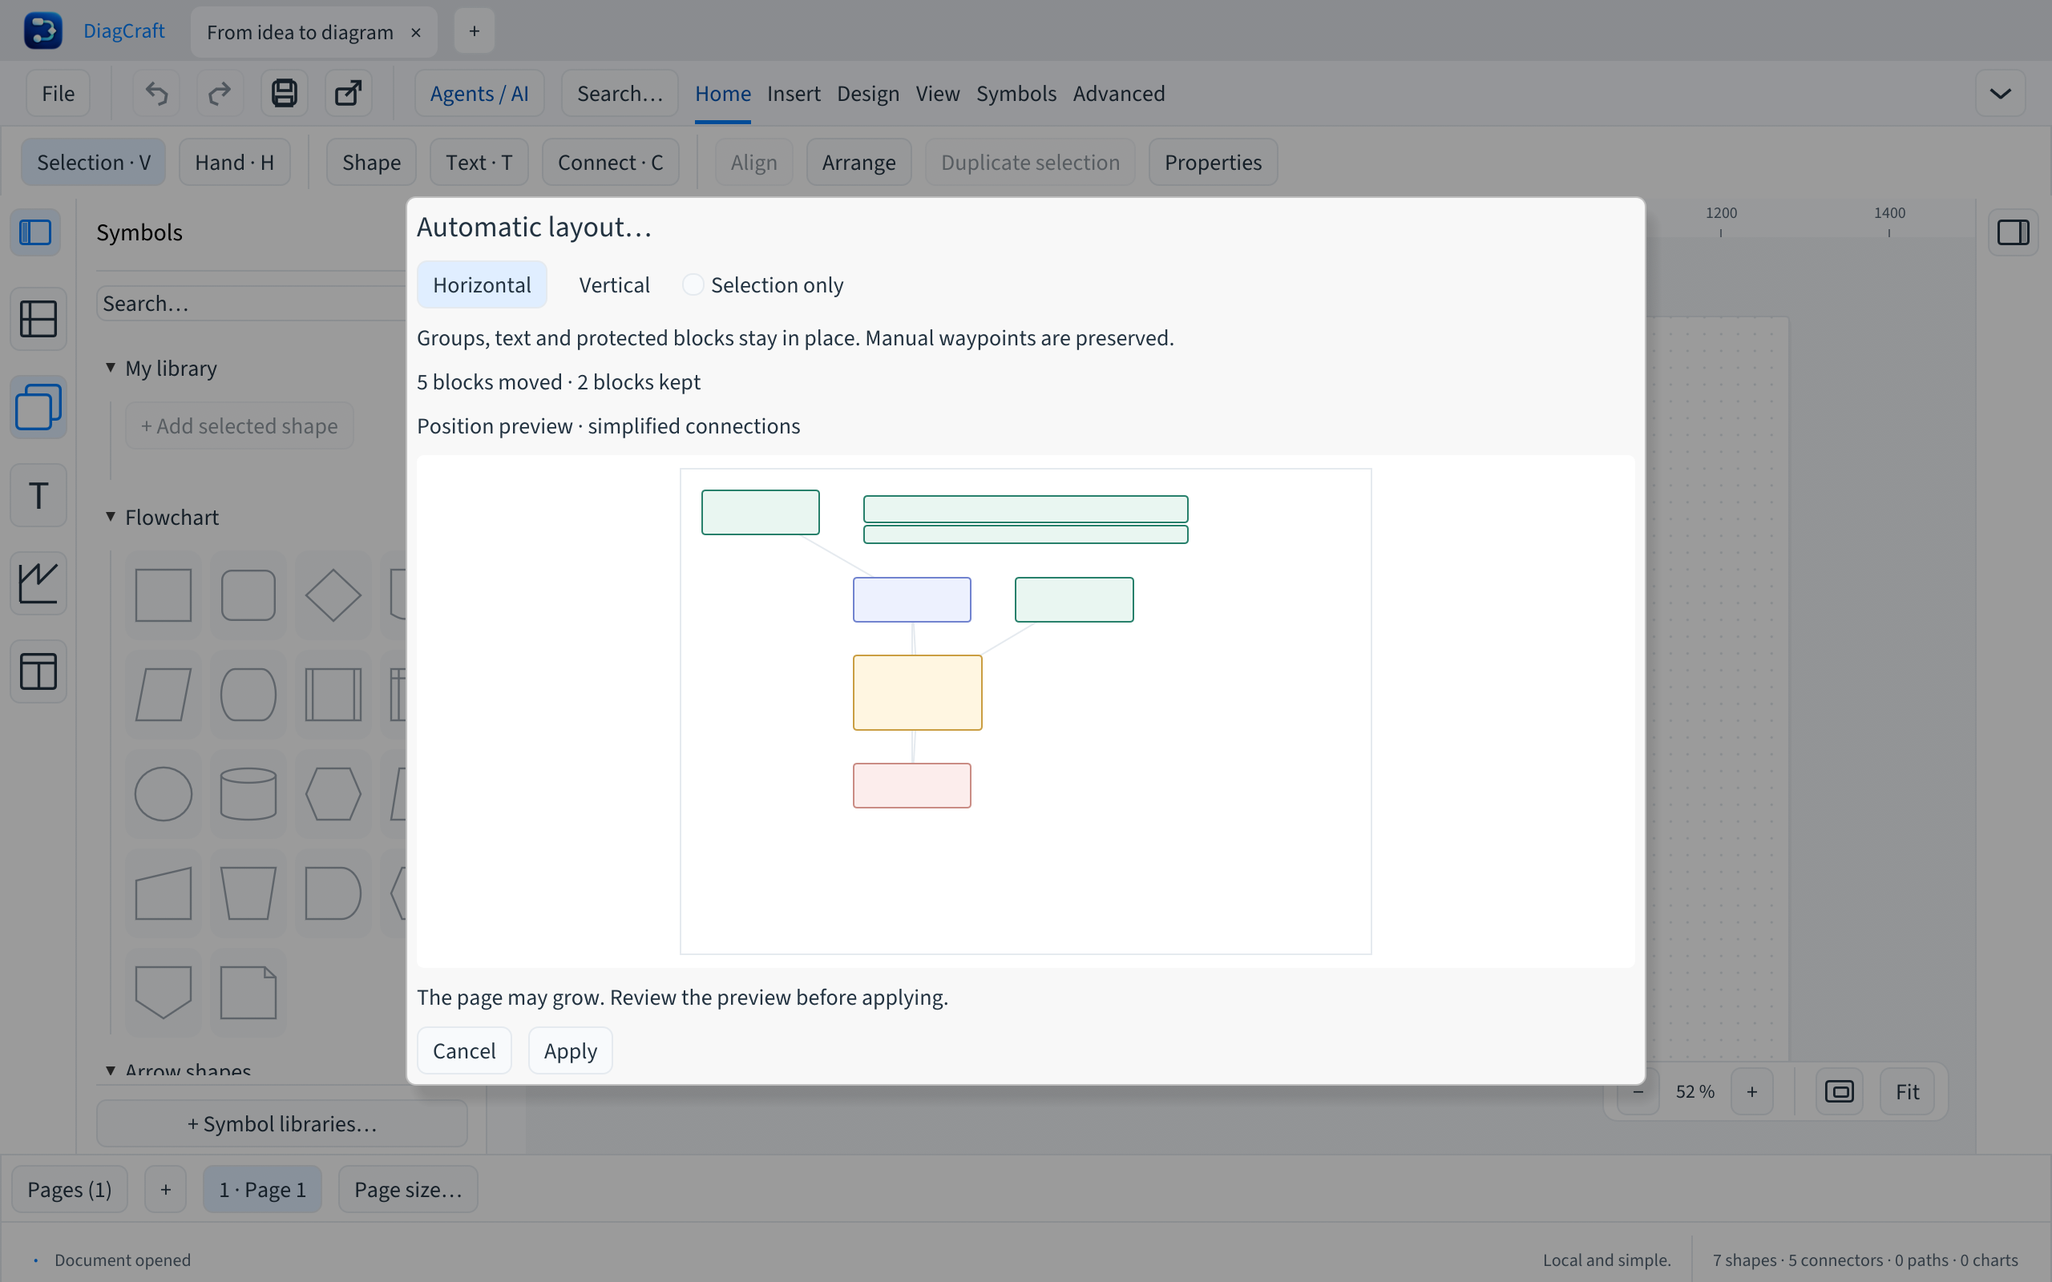
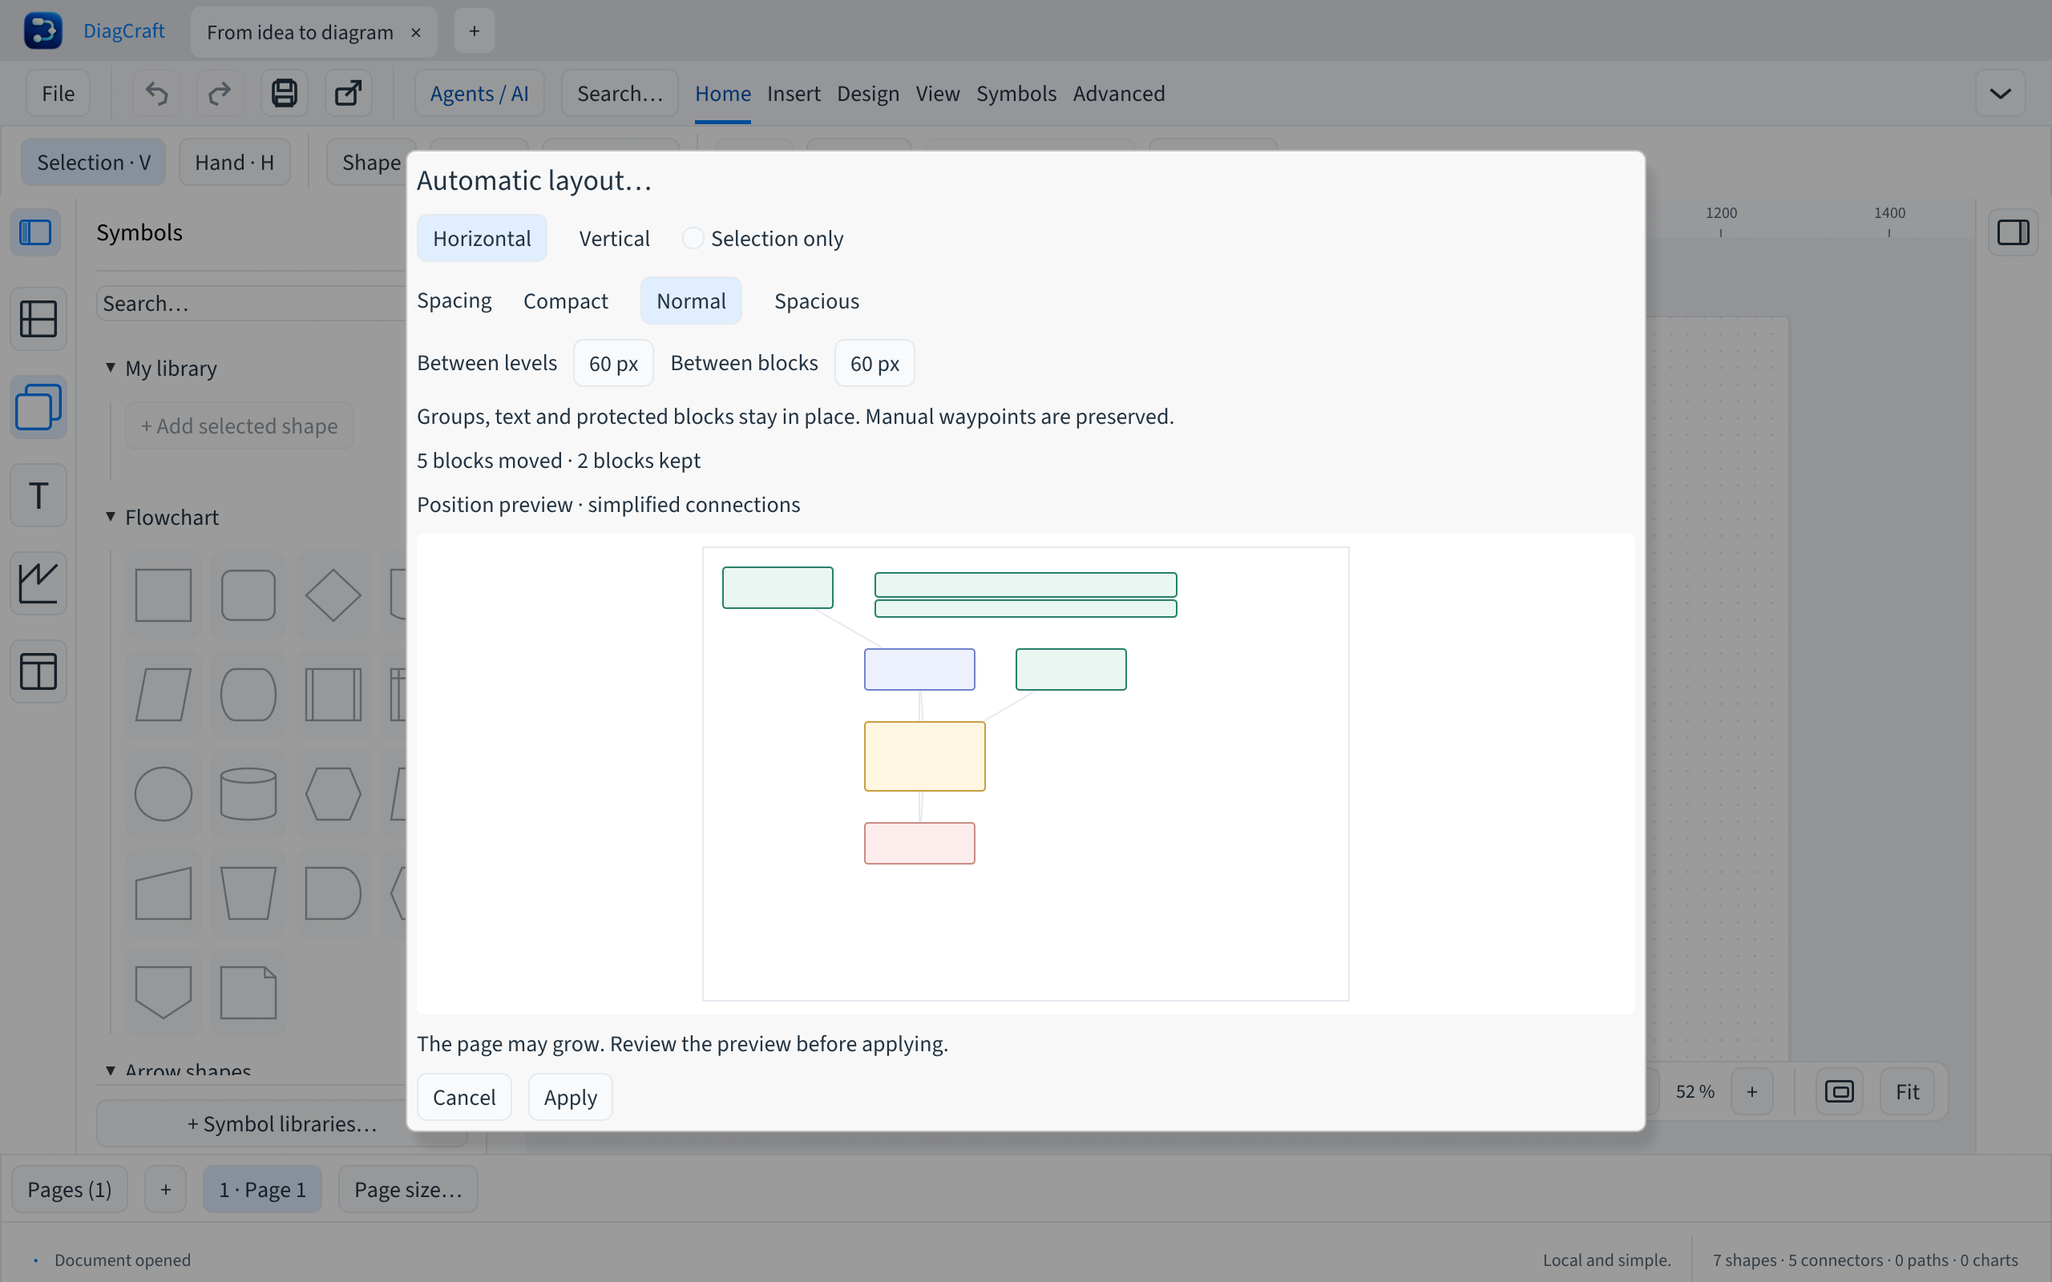
Add independent automatic-layout spacing controls and presets

diff --git a/apps/diagcraft/src/auto_layout_ui.rs b/apps/diagcraft/src/auto_layout_ui.rs
@@ -1,21 +1,23 @@
 //! Preview state is transient and never edits a drawing until Apply.
 use super::*;
-use diagcraft::auto_layout::{self, Direction};
+use diagcraft::auto_layout::{self, Direction, Spacing};
 
 pub(super) struct Panel {
     source: Document,
     tab: usize,
     direction: Direction,
+    spacing: Spacing,
     selection_only: bool,
     selection: Vec<u64>,
     preview: Result<auto_layout::Preview, String>,
 }
 impl Panel {
     fn refresh(&mut self) {
-        self.preview = auto_layout::preview(
+        self.preview = auto_layout::preview_with_spacing(
             &self.source,
             self.selection_only.then_some(self.selection.as_slice()),
             self.direction,
+            self.spacing,
         );
     }
     fn current(&self, app: &DrawApp) -> bool {
@@ -31,6 +33,7 @@ impl DrawApp {
             source: self.doc.clone(),
             tab: self.active_tab,
             direction: Direction::Horizontal,
+            spacing: Spacing::default(),
             selection_only: !self.selected.is_empty(),
             selection: self.selected.clone(),
             preview: Err(String::new()),
@@ -65,6 +68,22 @@ impl DrawApp {
                 ui.checkbox(&mut panel.selection_only, t("Sélection uniquement"));
                 if before != (panel.direction, panel.selection_only) { panel.refresh(); }
             });
+            let previous = panel.spacing;
+            ui.horizontal_wrapped(|ui| {
+                ui.label(t("Espacement"));
+                for (label, gap) in [("Compact", 30.), ("Normal", 60.), ("Aéré", 120.)] {
+                    if ui.selectable_label(panel.spacing == Spacing { levels: gap, blocks: gap }, t(label)).clicked() {
+                        panel.spacing = Spacing { levels: gap, blocks: gap };
+                    }
+                }
+            });
+            ui.horizontal_wrapped(|ui| {
+                let levels = ui.label(t("Entre les niveaux"));
+                ui.add(egui::DragValue::new(&mut panel.spacing.levels).range(20. ..=300.).speed(1.).suffix(" px")).labelled_by(levels.id);
+                let blocks = ui.label(t("Entre les blocs"));
+                ui.add(egui::DragValue::new(&mut panel.spacing.blocks).range(20. ..=300.).speed(1.).suffix(" px")).labelled_by(blocks.id);
+            });
+            if panel.spacing != previous { panel.refresh(); }
             ui.label(t("Les groupes, textes et blocs protégés restent en place. Les points manuels sont conservés."));
             if !panel.current(self) {
                 ui.colored_label(theme_ui::ERROR_TEXT, t("Le document a changé. Actualisez l’aperçu avant de continuer."));
@@ -77,7 +96,7 @@ impl DrawApp {
                 Ok(preview) => {
                     ui.label(i18n::render("{0} blocs déplacés · {1} blocs conservés", &[("0", preview.moved.to_string()), ("1", preview.fixed.to_string())]));
                     ui.label(t("Aperçu des positions · liaisons simplifiées"));
-                    let (rect, _) = ui.allocate_exact_size(vec2(ui.available_width(), (ctx.content_rect().height() - 320.).clamp(120., 320.)), Sense::hover());
+                    let (rect, _) = ui.allocate_exact_size(vec2(ui.available_width(), (ctx.content_rect().height() - 400.).clamp(120., 300.)), Sense::hover());
                     paint_preview(ui.painter(), &preview.document, rect);
                     ui.label(t("La page peut s’agrandir. Vérifiez l’aperçu avant d’appliquer."));
                 }
@@ -208,6 +227,89 @@ mod tests {
             // Cancel by dropping transient preview, with no document edit.
             app.auto_layout_ui = None;
             assert!(!app.command_dialog_blocked());
+        }
+        i18n::activate(Language::French);
+    }
+    #[test]
+    fn preset_clicks_refresh_only_the_preview_and_apply_as_one_edit() {
+        for language in Language::ALL {
+            let ctx = egui::Context::default();
+            let mut app = DrawApp::from_context(&ctx, Document::demo(), None, None);
+            app.set_language(Some(language));
+            app.open_auto_layout();
+            let before = app.doc.clone();
+            let render = |app: &mut DrawApp, events| {
+                ctx.run(
+                    egui::RawInput {
+                        screen_rect: Some(Rect::from_min_size(Pos2::ZERO, vec2(1200., 680.))),
+                        focused: true,
+                        events,
+                        ..Default::default()
+                    },
+                    |ctx| app.auto_layout_dialog(ctx),
+                )
+            };
+            for (label, gap) in [("Compact", 30.), ("Normal", 60.), ("Aéré", 120.)] {
+                render(&mut app, vec![]);
+                let output = render(&mut app, vec![]);
+                let point = output
+                    .shapes
+                    .iter()
+                    .find_map(|shape| {
+                        if let egui::Shape::Text(text) = &shape.shape
+                            && text.galley.text() == t(label)
+                        {
+                            Some(text.pos + text.galley.size() / 2.)
+                        } else {
+                            None
+                        }
+                    })
+                    .expect("preset must be visible in the short window");
+                for pressed in [true, false] {
+                    render(
+                        &mut app,
+                        vec![
+                            egui::Event::PointerMoved(point),
+                            egui::Event::PointerButton {
+                                pos: point,
+                                button: egui::PointerButton::Primary,
+                                pressed,
+                                modifiers: egui::Modifiers::NONE,
+                            },
+                        ],
+                    );
+                }
+                let panel = app.auto_layout_ui.as_ref().unwrap();
+                assert_eq!(
+                    panel.spacing,
+                    Spacing {
+                        levels: gap,
+                        blocks: gap
+                    }
+                );
+                let expected = auto_layout::preview_with_spacing(
+                    &before,
+                    None,
+                    Direction::Horizontal,
+                    panel.spacing,
+                )
+                .unwrap();
+                assert_eq!(panel.preview.as_ref().unwrap().document, expected.document);
+                assert_eq!(app.doc, before);
+                assert!(!app.history.can_undo());
+            }
+            let mut panel = app.auto_layout_ui.take().unwrap();
+            panel.spacing = Spacing {
+                levels: 85.,
+                blocks: 35.,
+            };
+            panel.refresh();
+            let expected = panel.preview.as_ref().unwrap().document.clone();
+            assert!(app.apply_auto_layout(&panel));
+            assert_eq!(app.doc, expected);
+            app.undo();
+            assert_eq!(app.doc, before);
+            assert!(!app.history.can_undo());
         }
         i18n::activate(Language::French);
     }

diff --git a/crates/core/tests/auto_layout.rs b/crates/core/tests/auto_layout.rs
@@ -1,5 +1,5 @@
 use diagcraft::{
-    auto_layout::{Direction, preview},
+    auto_layout::{Direction, Spacing, preview, preview_with_spacing},
     document::{ConnectorKind, Document, ShapeKind},
 };
 fn flow() -> (Document, Vec<u64>) {
@@ -92,4 +92,79 @@ fn other_pages_and_source_survive_and_limits_fail_without_mutation() {
     let before = d.clone();
     assert!(preview(&d, None, Direction::Horizontal).is_err());
     assert_eq!(d, before);
+}
+
+#[test]
+fn custom_spacing_controls_levels_and_siblings_independently_in_both_directions() {
+    let (doc, ids) = flow();
+    let before = doc.clone();
+    for (axis, direction) in [(0, Direction::Horizontal), (1, Direction::Vertical)] {
+        for spacing in [
+            Spacing {
+                levels: 20.,
+                blocks: 300.,
+            },
+            Spacing {
+                levels: 300.,
+                blocks: 20.,
+            },
+            Spacing {
+                levels: 85.,
+                blocks: 35.,
+            },
+        ] {
+            let p = preview_with_spacing(&doc, None, direction, spacing).unwrap();
+            let a = p.document.node(ids[0]).unwrap();
+            let b = p.document.node(ids[1]).unwrap();
+            let c = p.document.node(ids[2]).unwrap();
+            assert_eq!(
+                b.position[axis] - a.position[axis] - a.size[axis],
+                spacing.levels
+            );
+            assert_eq!(
+                c.position[1 - axis] - b.position[1 - axis] - b.size[1 - axis],
+                spacing.blocks
+            );
+            assert_eq!(p.document.connectors, doc.connectors);
+            let repeated = preview_with_spacing(&p.document, None, direction, spacing).unwrap();
+            assert_eq!(repeated.moved, 0);
+            p.document.validate().unwrap();
+        }
+    }
+    assert_eq!(doc, before);
+    assert_eq!(
+        preview(&doc, None, Direction::Horizontal).unwrap().document,
+        preview_with_spacing(&doc, None, Direction::Horizontal, Spacing::default())
+            .unwrap()
+            .document
+    );
+}
+
+#[test]
+fn invalid_spacing_is_rejected_without_mutating_the_source() {
+    let (doc, _) = flow();
+    let before = doc.clone();
+    for value in [
+        f32::NAN,
+        f32::INFINITY,
+        f32::NEG_INFINITY,
+        -1.,
+        0.,
+        19.,
+        301.,
+    ] {
+        for spacing in [
+            Spacing {
+                levels: value,
+                blocks: 60.,
+            },
+            Spacing {
+                levels: 60.,
+                blocks: value,
+            },
+        ] {
+            assert!(preview_with_spacing(&doc, None, Direction::Vertical, spacing).is_err());
+            assert_eq!(doc, before);
+        }
+    }
 }

diff --git a/crates/core/src/auto_layout.rs b/crates/core/src/auto_layout.rs
@@ -7,6 +7,21 @@ pub enum Direction {
     Horizontal,
     Vertical,
 }
+/// Page coordinates in pixels; independent from interface zoom and direction.
+#[derive(Clone, Copy, Debug, PartialEq)]
+pub struct Spacing {
+    pub levels: f32,
+    pub blocks: f32,
+}
+impl Default for Spacing {
+    fn default() -> Self {
+        Self {
+            levels: 60.,
+            blocks: 60.,
+        }
+    }
+}
+
 pub struct Preview {
     pub document: Document,
     pub moved: usize,
@@ -18,6 +33,21 @@ pub fn preview(
     selection: Option<&[u64]>,
     direction: Direction,
 ) -> Result<Preview, String> {
+    preview_with_spacing(doc, selection, direction, Spacing::default())
+}
+
+pub fn preview_with_spacing(
+    doc: &Document,
+    selection: Option<&[u64]>,
+    direction: Direction,
+    spacing: Spacing,
+) -> Result<Preview, String> {
+    if [spacing.levels, spacing.blocks]
+        .iter()
+        .any(|gap| !gap.is_finite() || !(20. ..=300.).contains(gap))
+    {
+        return Err("Espacements invalides : utilisez des valeurs de 20 à 300 px.".into());
+    }
     doc.validate()?;
     let view = doc.organization_view();
     let selection = selection.map(|ids| ids.iter().copied().collect::<BTreeSet<_>>());
@@ -114,7 +144,8 @@ pub fn preview(
     }
     let axis = usize::from(direction == Direction::Vertical);
     let cross = 1 - axis;
-    let gap = 60.;
+    let mut gaps = [spacing.blocks; 2];
+    gaps[axis] = spacing.levels;
     let mut extents = vec![0_f32; count];
     for (&id, node) in &nodes {
         let r = rank[component[indices[&id]]];
@@ -122,7 +153,7 @@ pub fn preview(
     }
     let mut origins = vec![40.; count];
     for r in 1..count {
-        origins[r] = origins[r - 1] + extents[r - 1] + gap;
+        origins[r] = origins[r - 1] + extents[r - 1] + spacing.levels;
     }
     let mut occupied: Vec<(Point, Point)> = doc
         .nodes
@@ -147,11 +178,11 @@ pub fn preview(
                 .iter()
                 .filter(|(p, size)| {
                     (0..2).all(|a| {
-                        position[a] < p[a] + size[a] + gap
-                            && position[a] + node.size[a] + gap > p[a]
+                        position[a] < p[a] + size[a] + gaps[a]
+                            && position[a] + node.size[a] + gaps[a] > p[a]
                     })
                 })
-                .map(|(p, size)| p[cross] + size[cross] + gap)
+                .map(|(p, size)| p[cross] + size[cross] + spacing.blocks)
                 .fold(position[cross], f32::max);
             if after == position[cross] {
                 break;

diff --git a/docs/mise-en-page.md b/docs/mise-en-page.md
@@ -21,7 +21,19 @@ pas des obstacles de placement. Les autres pages ne changent pas.
 
 Le graphe des blocs à déplacer donne des niveaux. Les boucles sont regroupées
 dans un même niveau ; les blocs déconnectés sont aussi disposés. Le résultat est
-déterministe à données égales, avec 60 px d’espacement et une marge de 40 px.
+déterministe à données et réglages égaux, avec une marge de 40 px.
+
+Les préréglages **Compact**, **Normal** et **Aéré** choisissent respectivement
+30, 60 ou 120 px pour les deux espacements. Vous pouvez régler séparément :
+
+- **Entre les niveaux** : distance entre étapes successives du flux, dans le sens
+  horizontal ou vertical choisi.
+- **Entre les blocs** : distance entre blocs d’un même niveau, sur l’autre axe.
+
+Les champs acceptent de 20 à 300 px. L’aperçu se recalcule à chaque changement ;
+les obstacles fixes gardent leur position. Les réglages concernent l’aperçu
+courant et reviennent à 60 px à la prochaine ouverture. Ils ne sont pas enregistrés
+dans le document. Le calcul par défaut conserve le placement de la première version.
 Les connecteurs sont conservés : les routes automatiques suivent les blocs et
 les points de passage manuels restent à leurs coordonnées, donc peuvent demander
 une retouche. Les libellés, styles, IDs et appartenances aux calques sont conservés.
@@ -29,10 +41,11 @@ une retouche. Les libellés, styles, IDs et appartenances aux calques sont conse
 Cette première version traite au maximum 500 blocs éligibles. Une sélection
 plus petite permet de travailler sur les grands dessins. Les dimensions trop
 grandes sont refusées sans changement. Il ne s’agit pas d’un optimiseur de
-croisements ; déplacement des groupes et réglages d’espacement restent prévus.
+croisements ; le déplacement des groupes reste prévu.
 
 L’application vérifie le document source, la page et l’onglet avant validation.
 Un aperçu périmé doit être actualisé. Les tests couvrent cycles, branches, blocs
-fixes, sélection, multipage, annulation et modales dans les sept langues à
+fixes, sélection, multipage, espacements indépendants et invalides, annulation et
+activation des préréglages dans les sept langues à
 1200 × 680 points. Ils ne remplacent pas les essais utilisateurs.
 Le format `.draw` reste v7 et l’API agents v1, sans dépendance ajoutée.

diff --git a/CHANGELOG.md b/CHANGELOG.md
@@ -5,6 +5,10 @@ et l’API agents sont versionnés indépendamment.
 
 ## Non publié — mise en page, insertion directe et accueil multilingue
 
+- Réglages d’espacement indépendants entre niveaux et entre blocs (20 à 300 px), avec préréglages Compact/Normal/Aéré et recalcul de l’aperçu.
+- Espacement initial de 60 px conservé ; choix transitoires, sans modification du format documentaire ni des préférences enregistrées.
+- Tests des clics sur les préréglages dans sept langues, de l’annulation, des espacements asymétriques et des valeurs invalides.
+
 - Première mise en page automatique des blocs de la sélection ou page active, horizontale/verticale, avec aperçu des positions et validation explicite.
 - Blocs protégés, masqués, groupés et textes laissés en place ; obstacles fixes évités, points de passage manuels conservés.
 - Flux cycliques acceptés, calcul déterministe borné à 500 blocs, page extensible et une seule annulation ; aperçu périmé refusé.

diff --git a/ROADMAP.md b/ROADMAP.md
@@ -87,7 +87,8 @@ versionnés avec migration ; aucun numéro n’est promis ici.
 
 - [x] Insertion directe sur connecteur et repère de survol (branche de développement, non publié).
 - [x] Première mise en page automatique des blocs avec aperçu et annulation (branche de développement, non publié). Voir [le périmètre et les limites](docs/mise-en-page.md).
-- [ ] Affiner la mise en page : réduction des croisements, déplacement des groupes comme unités et réglage des espacements.
+- [x] Espacements indépendants entre niveaux et entre blocs, préréglages Compact/Normal/Aéré et aperçu recalculé (branche de développement, non publié).
+- [ ] Affiner la mise en page : réduction des croisements et déplacement des groupes comme unités.
 - [ ] Arborescence des objets.
 - [ ] Liens de navigation entre pages.
 - [ ] Conteneurs et couloirs de processus.

diff --git a/docs/architecture.md b/docs/architecture.md
@@ -199,7 +199,11 @@ borné évitant les boîtes des blocs et graphiques fixes. Les objets sont ordon
 par ID pour un résultat déterministe ; seuls les blocs éligibles changent de
 position. `auto_layout_ui.rs` conserve le document source, la page et l’onglet,
 montre un aperçu simplifié et refuse une application périmée. La validation du
-lot utilise l’historique existant. Aucun champ documentaire ou API n’est ajouté.
+lot utilise l’historique existant. `Spacing` distingue les distances entre niveaux
+et entre blocs ; les valeurs finies de 20 à 300 px sont validées avant le calcul.
+Le wrapper `preview` conserve le défaut 60/60, tandis que l’interface appelle
+`preview_with_spacing` avec les réglages transitoires de sa modale. Aucun champ
+documentaire ou API agents n’est ajouté.
 
 ## Organisation des objets
 
